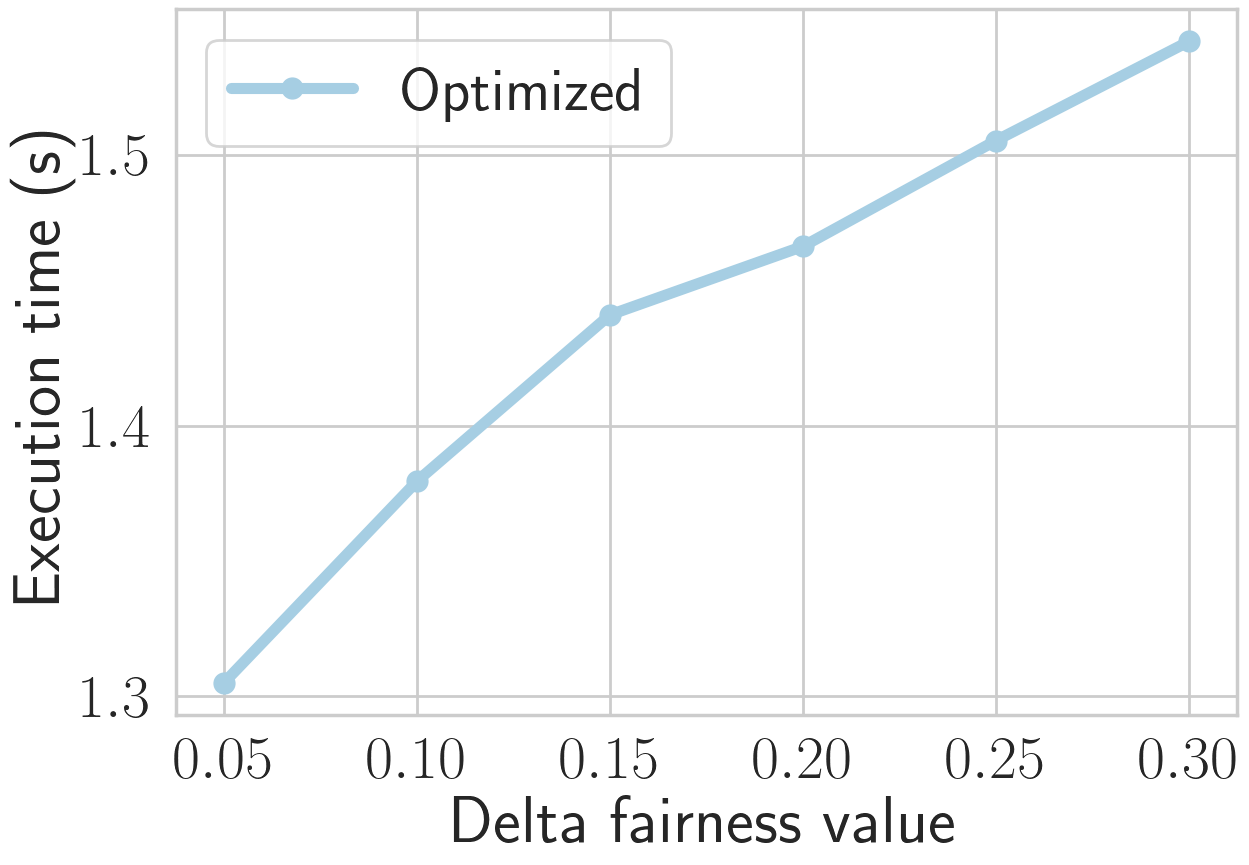
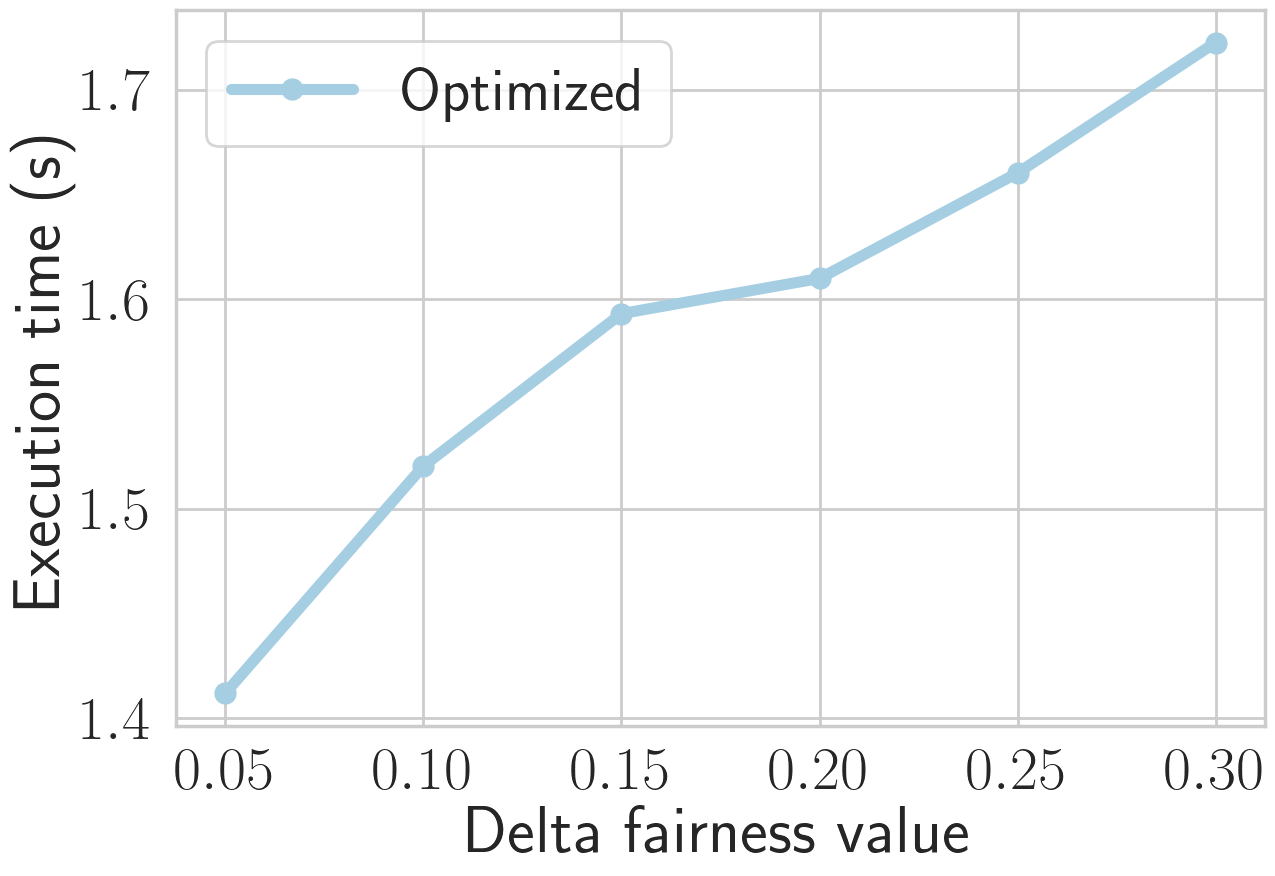
general, credit card data, tha, thc

Changed region(s): [[0.0, 0.0, 0.9992, 0.9988], [0.4684, 0.0, 0.4996, 0.0312], [0.3122, 0.0, 0.3435, 0.0312]]

diff --git a/Coding/Experiments/General_FP/CreditcardData/Thc_2_20210701.py b/Coding/Experiments/General_FP/CreditcardData/Thc_2_20210701.py
@@ -86,7 +86,7 @@ TN_data_file = "../../../../InputData/CreditcardDataset/ForClassification/credit
 TN = pd.read_csv(TN_data_file)[selected_attributes]
 
 overall_FPR = len(FP) / (len(FP) + len(TN))
-time_limit = 5*60
+time_limit = 10*60
 
 execution_time1 = list()
 
@@ -137,7 +137,7 @@ for thc in Thc_list:
 
 
 
-output_path = r'../../../../OutputData/General_withStopCond/CreditcardDataset/thc_optimized.txt'
+output_path = r'../../../../OutputData/General_withStopCond/CreditcardDataset/thc.txt'
 output_file = open(output_path, "w")
 num_lines = len(execution_time1)
 
@@ -168,7 +168,7 @@ plt.xticks(Thc_list)
 plt.legend(loc='best')
 plt.grid(True)
 fig.tight_layout()
-plt.savefig("../../../../OutputData/General_withStopCond/CreditcardDataset/thc_time_optimized.png",
+plt.savefig("../../../../OutputData/General_withStopCond/CreditcardDataset/thc_time.png",
             bbox_inches='tight')
 plt.show()
 plt.close()
@@ -186,7 +186,7 @@ plt.xticks(Thc_list)
 plt.legend(loc='best')
 plt.grid(True)
 fig.tight_layout()
-plt.savefig("../../../../OutputData/General_withStopCond/CreditcardDataset/thc_calculations_optimized.png",
+plt.savefig("../../../../OutputData/General_withStopCond/CreditcardDataset/thc_calculations.png",
             bbox_inches='tight')
 plt.show()
 plt.close()

diff --git a/Coding/Experiments/General_FP/CreditcardData/Tha_1_20210629.py b/Coding/Experiments/General_FP/CreditcardData/Tha_1_20210629.py
@@ -69,7 +69,7 @@ TN_data_file = "../../../../InputData/CreditcardDataset/ForClassification/credit
 TN = pd.read_csv(TN_data_file)[selected_attributes]
 
 overall_FPR = len(FP) / (len(FP) + len(TN))
-time_limit = 5*60
+time_limit = 10*60
 
 
 execution_time = list()
